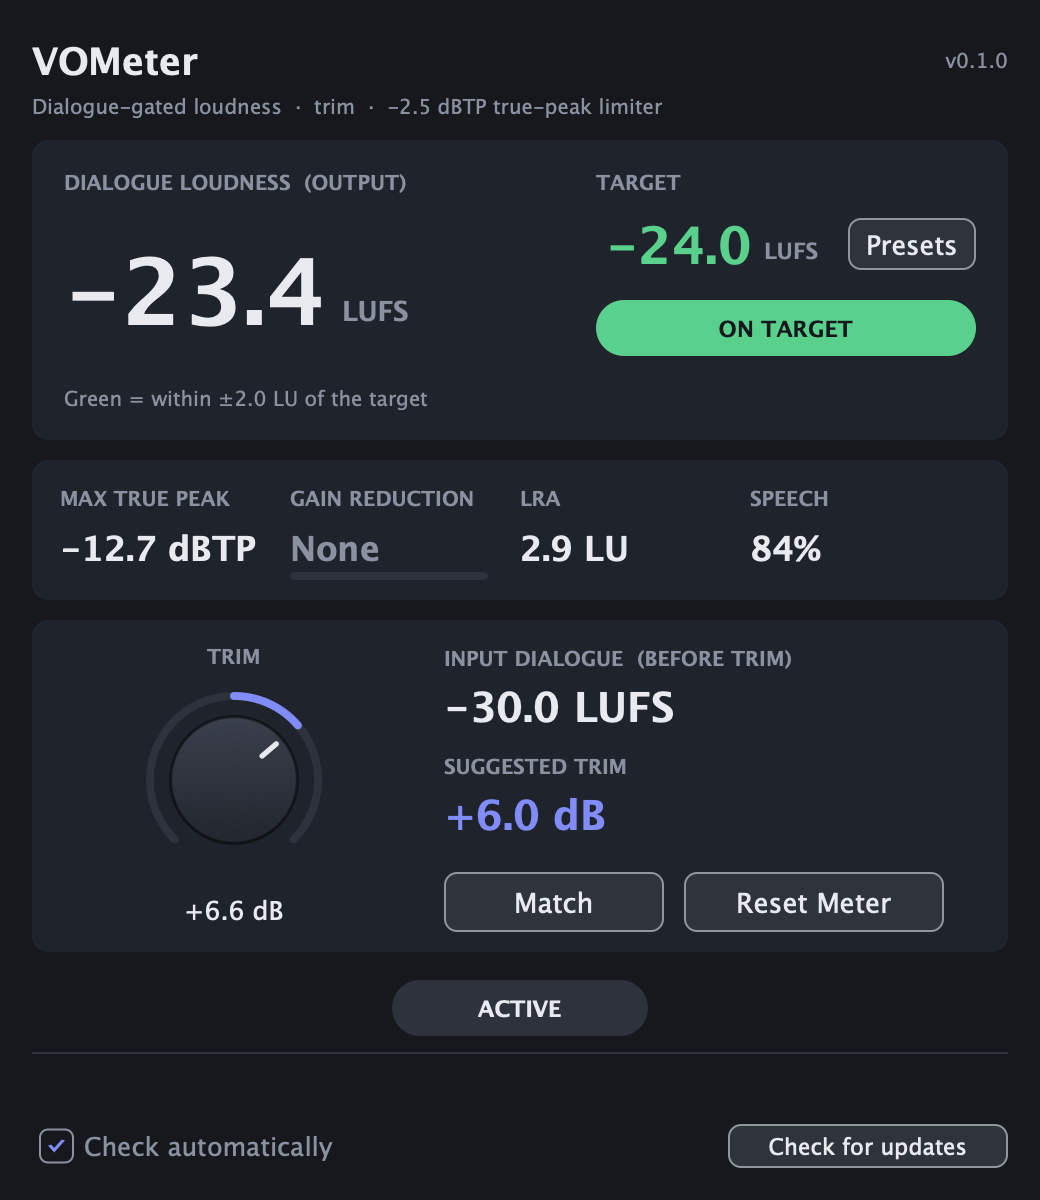
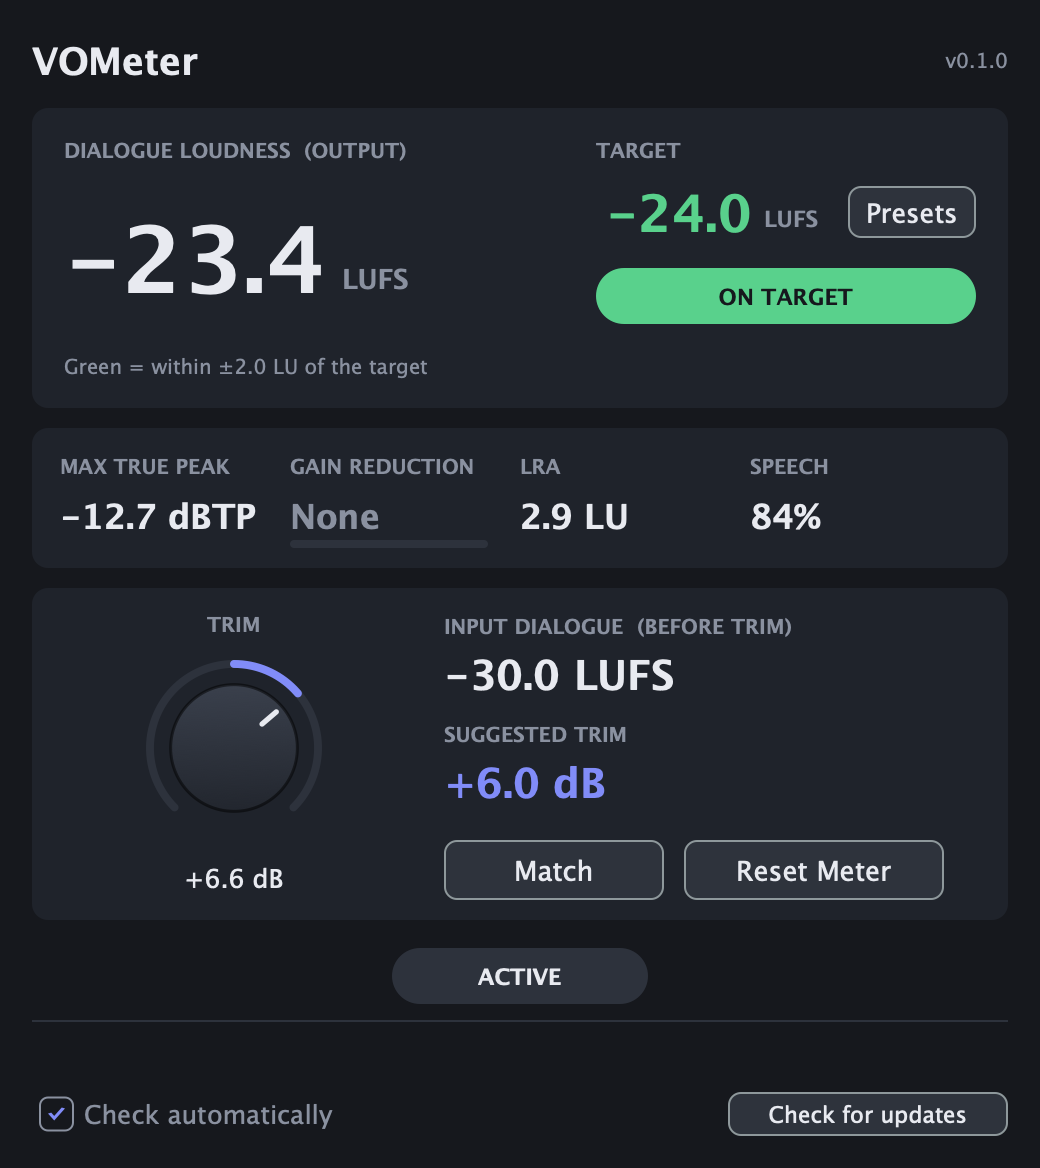
Drop the subtitle under the title

diff --git a/Source/PluginEditor.cpp b/Source/PluginEditor.cpp
@@ -4,6 +4,7 @@ namespace
 {
 juce::String utf8 (const char* s) { return juce::String (juce::CharPointer_UTF8 (s)); }
 const char* kDash = "\xe2\x80\x94";   // em dash: "no reading yet"
+constexpr int kTitleRowHeight = 28;     // brand::drawHeader's title row (no subtitle row here)
 
 juce::String fmt (float v, int decimals = 1)
 {
@@ -87,7 +88,7 @@ VOMeterEditor::VOMeterEditor (VOMeterProcessor& p)
 
     addAndMakeVisible (footer);
 
-    setSize (520, 600);
+    setSize (520, 600 - (brand::headerHeight - kTitleRowHeight) + 2);
     startTimerHz (20);
     timerCallback();
 }
@@ -169,8 +170,8 @@ void VOMeterEditor::timerCallback()
 void VOMeterEditor::paint (juce::Graphics& g)
 {
     g.fillAll (brand::bg);
-    brand::drawHeader (g, getLocalBounds(), JucePlugin_Name, UpdateChecker::getCurrentVersion(),
-                       utf8 ("Dialogue-gated loudness  \xc2\xb7  trim  \xc2\xb7  -2.5 dBTP true-peak limiter"));
+    // No subtitle line (the user prefers the plain title); resized() closes up its row.
+    brand::drawHeader (g, getLocalBounds(), JucePlugin_Name, UpdateChecker::getCurrentVersion(), {});
 
     for (auto panel : { loudPanel, statsPanel, trimPanel })
     {
@@ -301,7 +302,7 @@ void VOMeterEditor::paint (juce::Graphics& g)
 void VOMeterEditor::resized()
 {
     auto area = getLocalBounds().reduced (brand::margin);
-    area.removeFromTop (brand::headerHeight + 8);
+    area.removeFromTop (kTitleRowHeight + 10);
 
     footer.setBounds (area.removeFromBottom (brand::footerHeight));
     area.removeFromBottom (6);

diff --git a/Source/PluginEditor.h b/Source/PluginEditor.h
@@ -6,7 +6,7 @@
 #include "UpdateFooter.h"
 
 // Window layout (see CONVENTIONS.md):
-//   header   - plugin name, version, subtitle
+//   header   - plugin name and version (no subtitle)
 //   loudness - big dialogue-gated output LUFS, editable target (green when on target)
 //   stats    - max true peak, limiter gain reduction, LRA, speech share
 //   trim     - Trim knob (alt-click = 0 dB), input loudness, suggested trim, Match, Reset Meter
